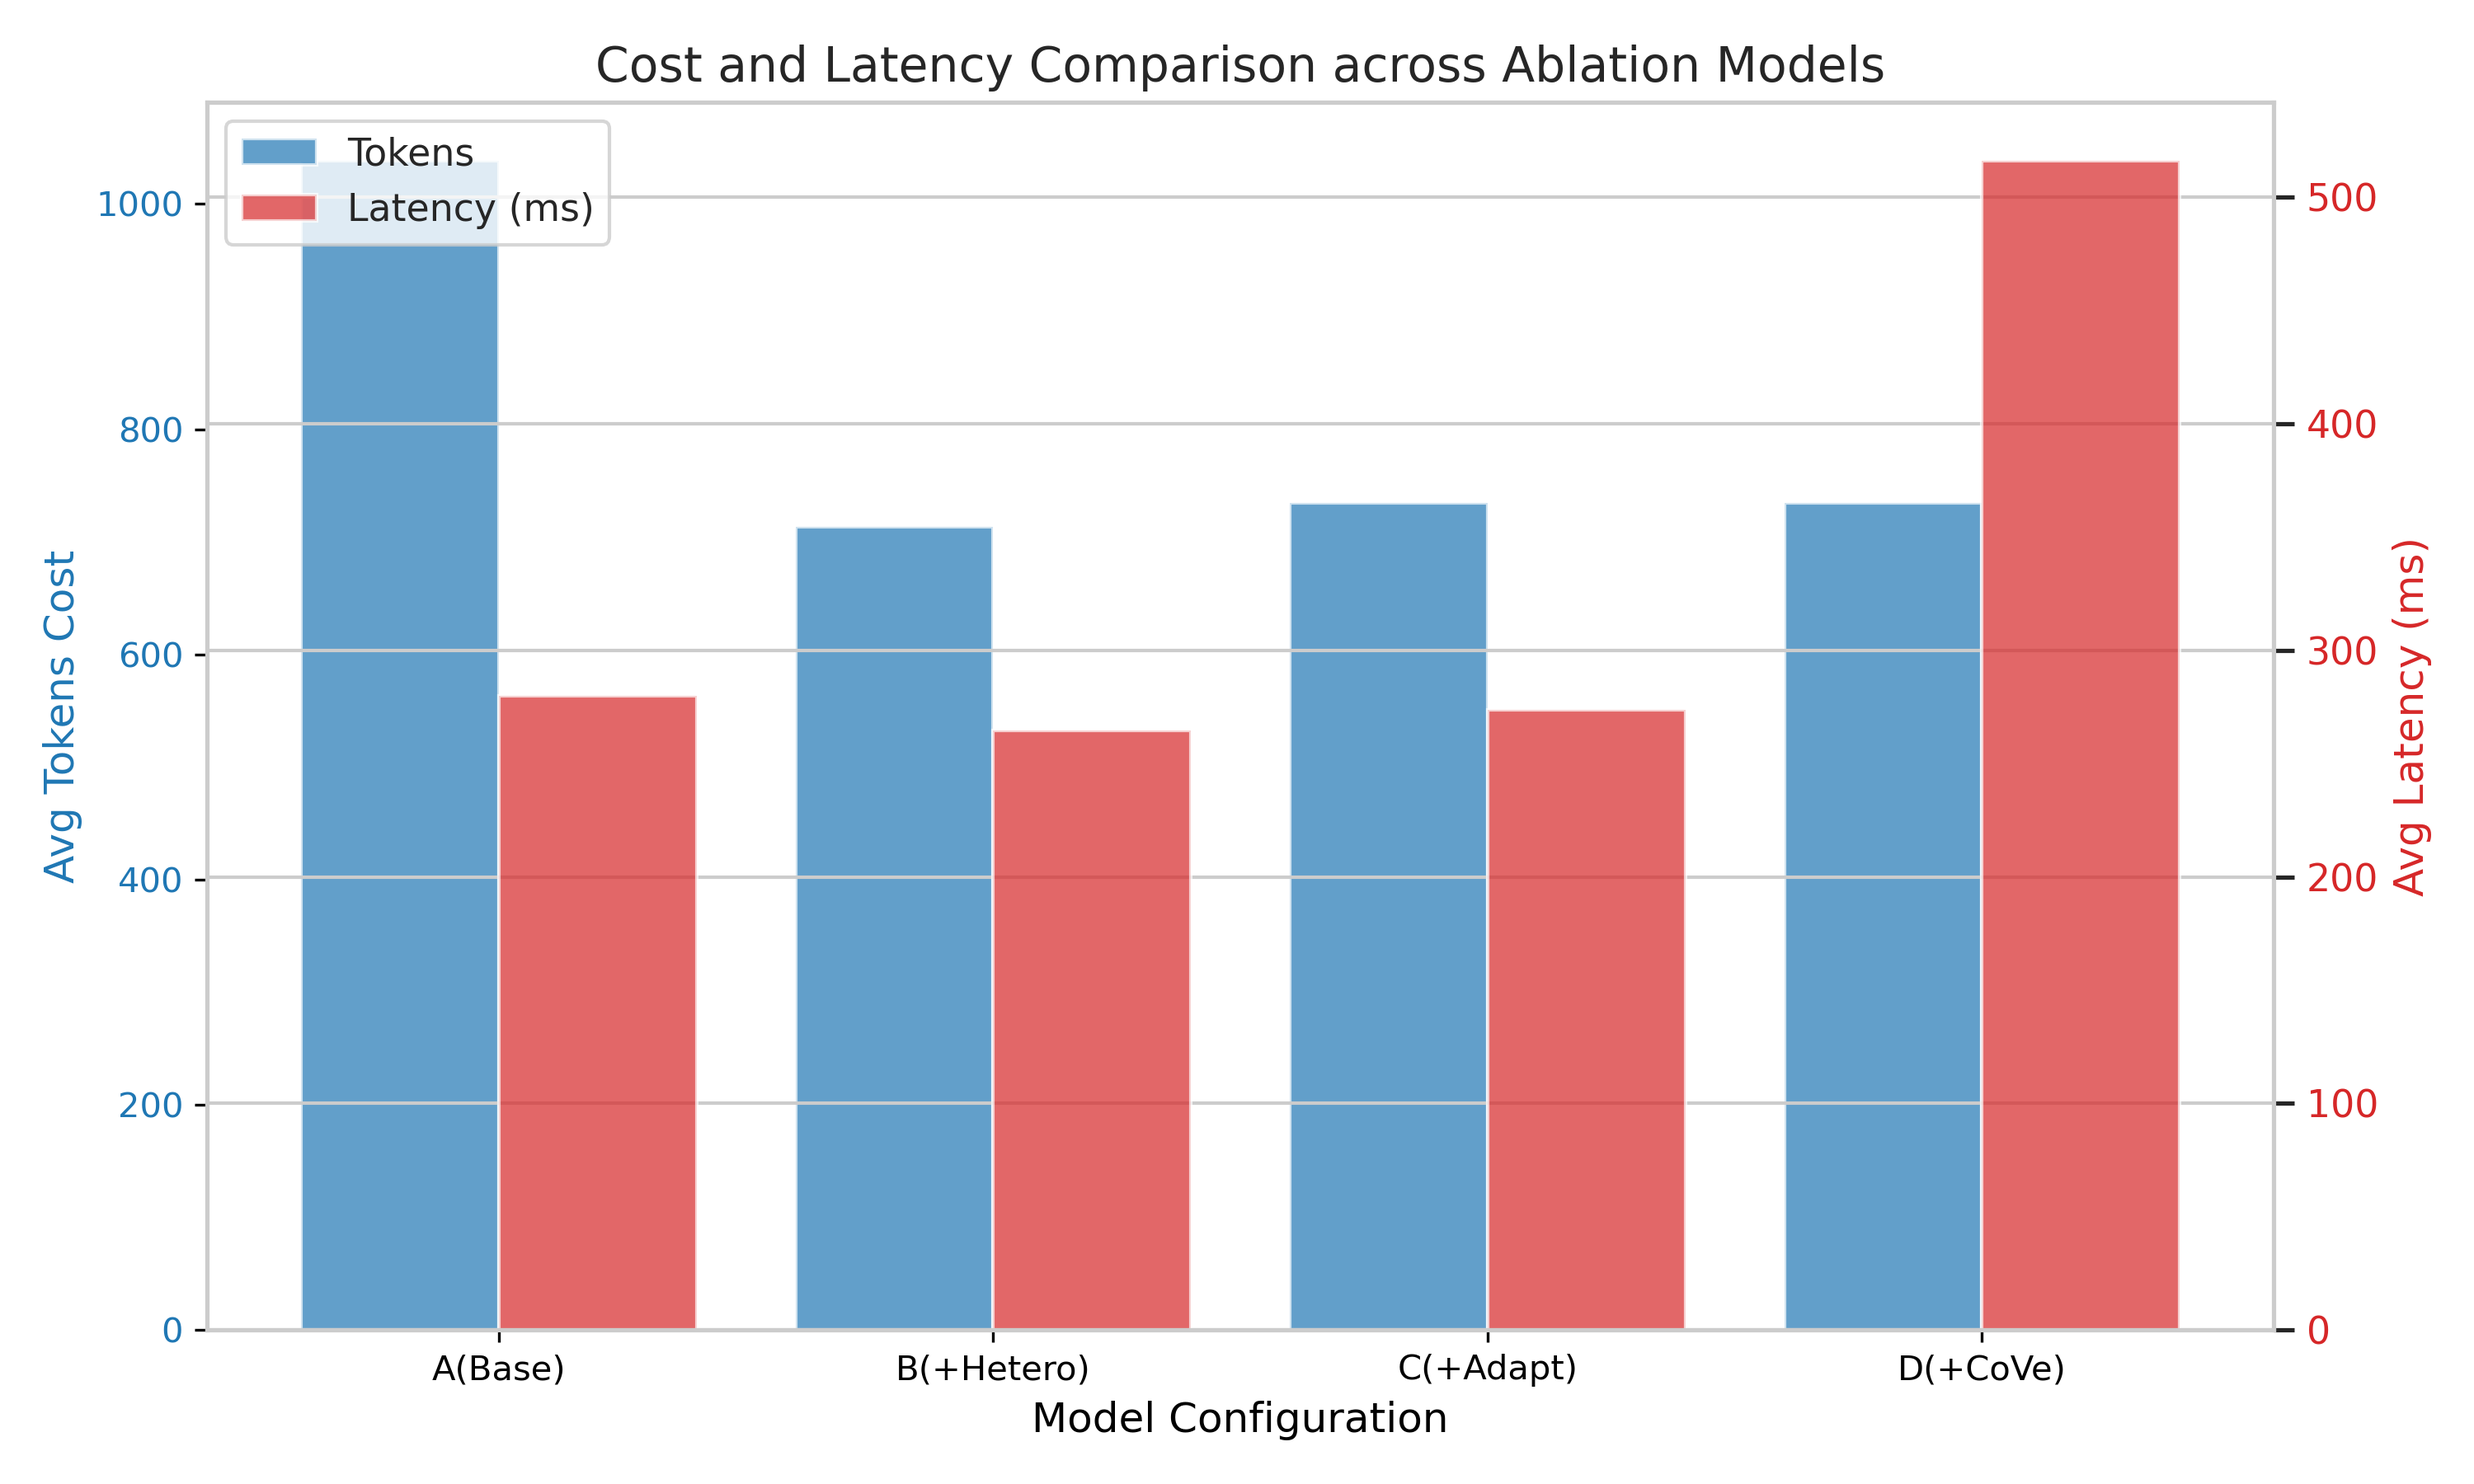
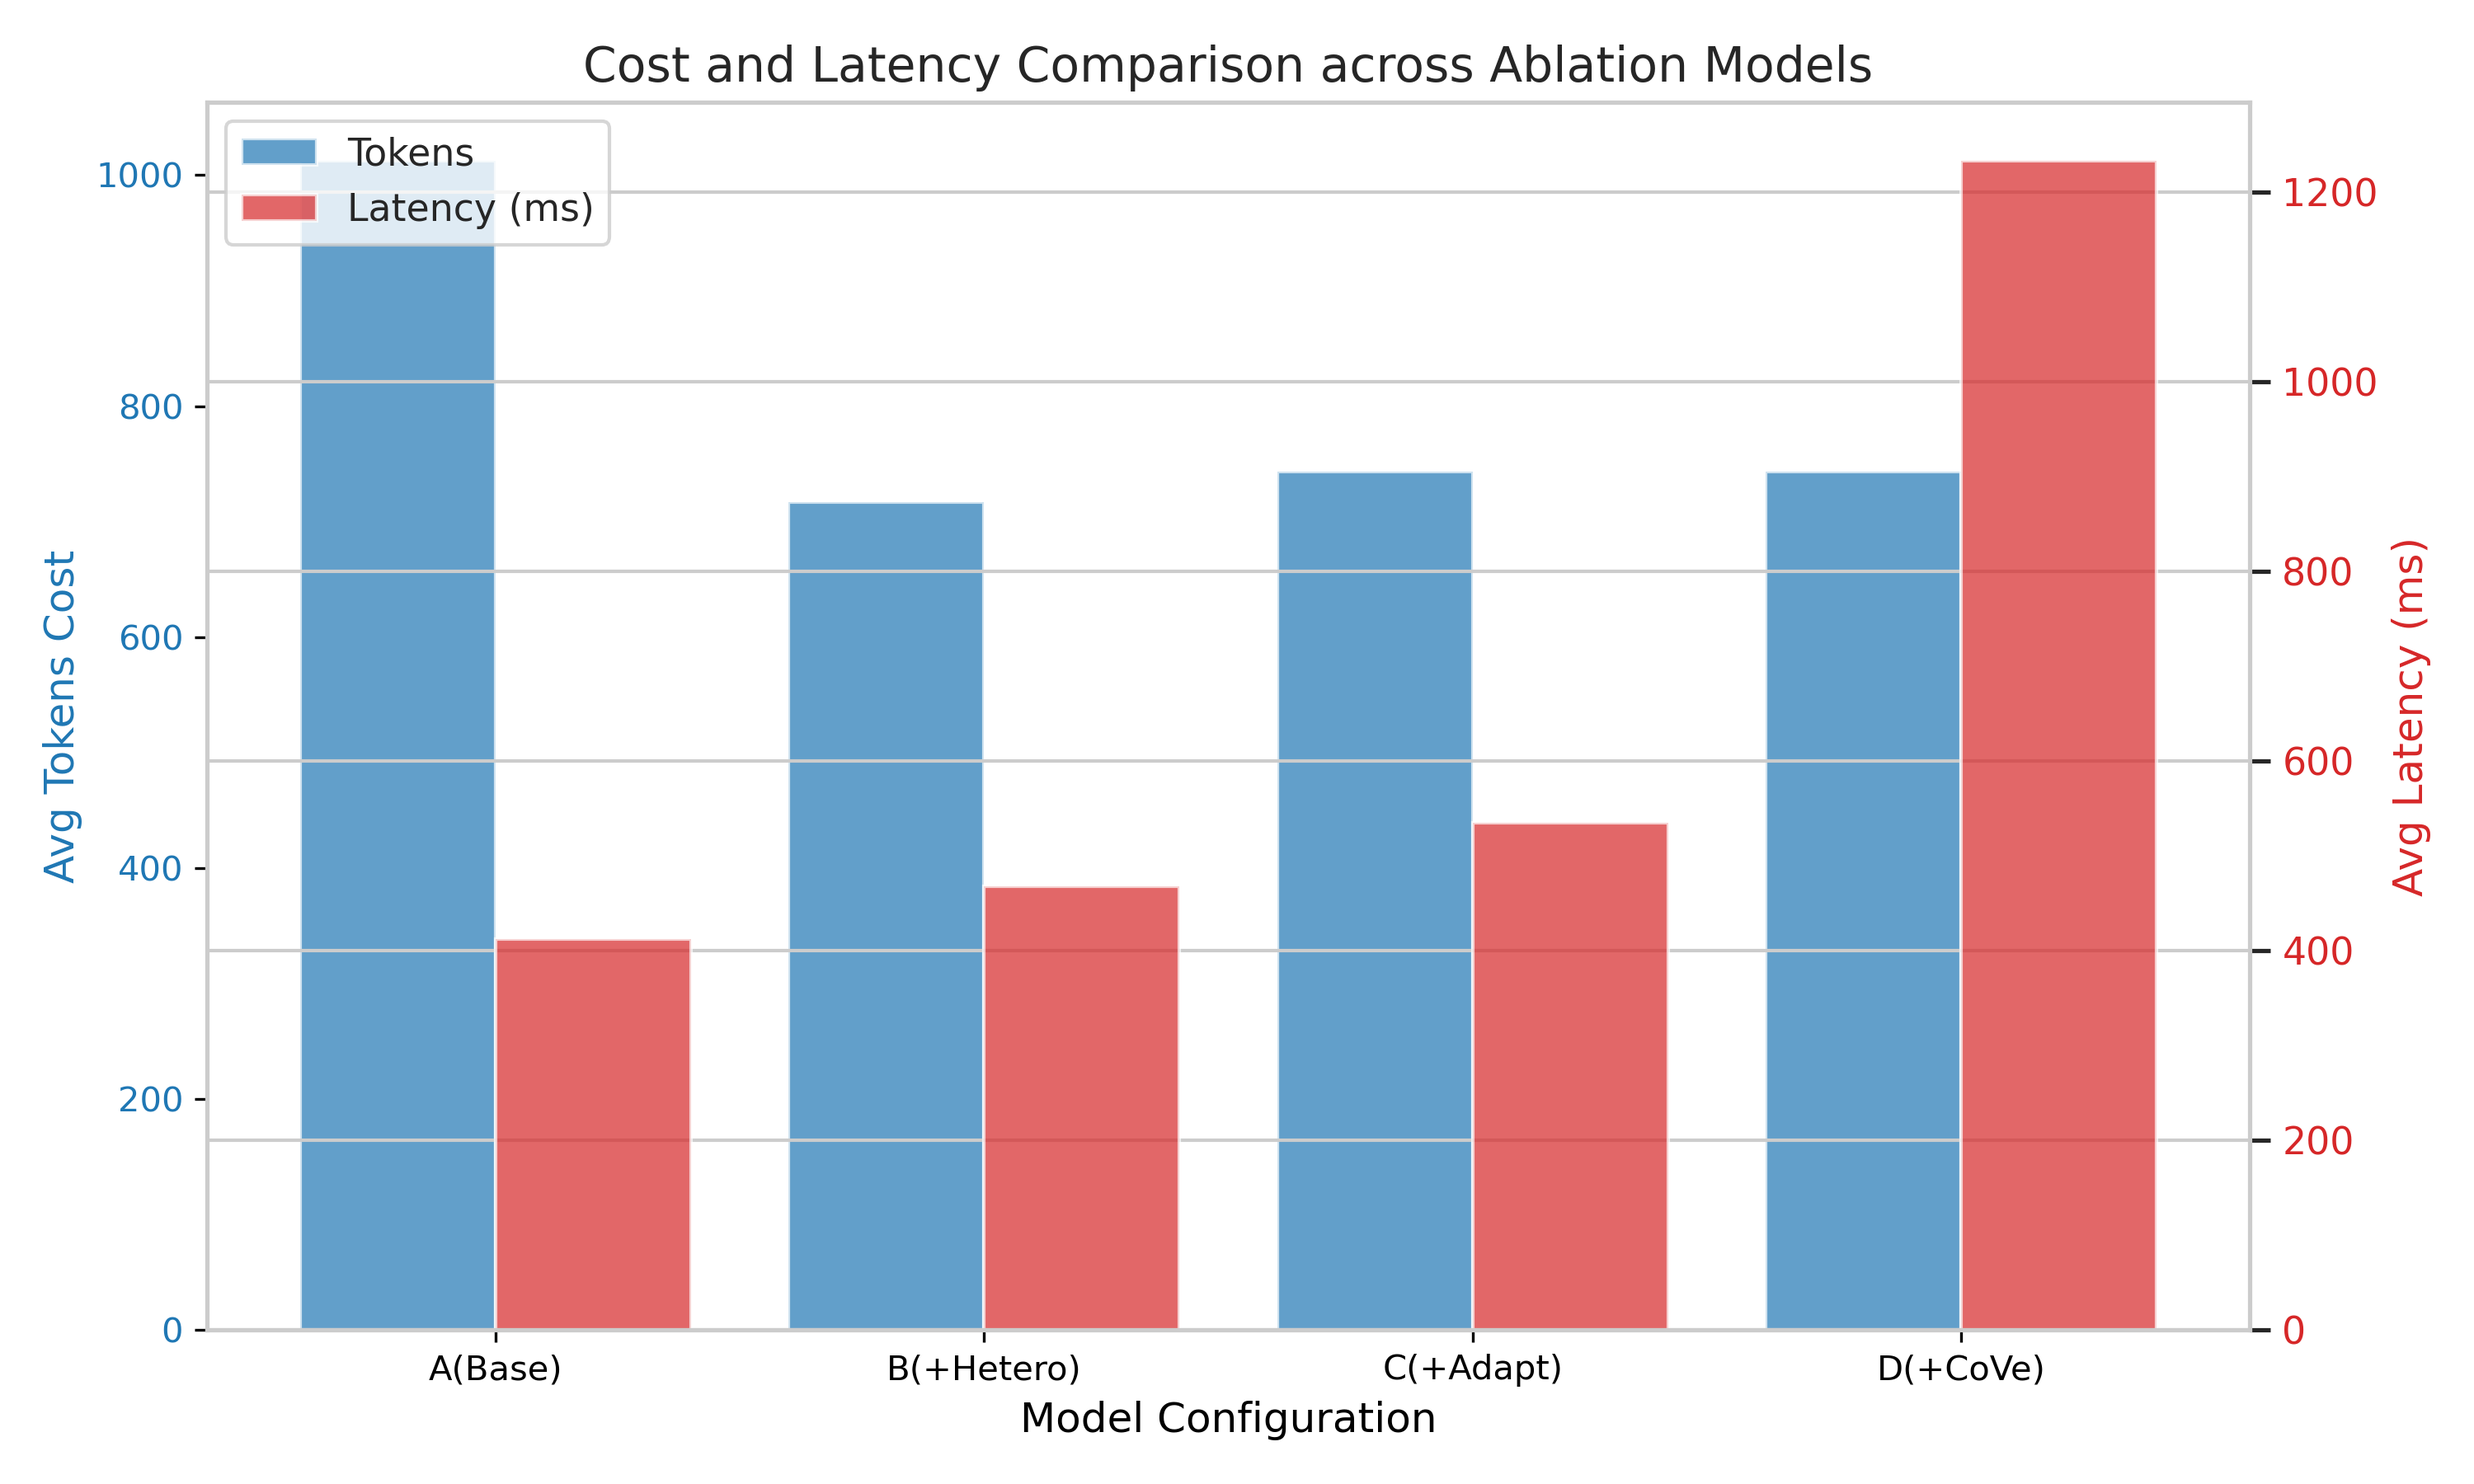
docs: Update latex text and figures with full dataset (N=7405) ablation results

diff --git a/paper/zjuthesis/body/undergraduate/final/2-body.tex b/paper/zjuthesis/body/undergraduate/final/2-body.tex
@@ -51,7 +51,7 @@
 
 \subsection{实验设置与数据集规模}
 
-为验证系统的端到端表现，本研究对标当前主流的成熟RAG与多跳QA研究（如DSPy、IRCoT、FLARE等），在学术界公认的\textbf{HotpotQA}（Distractor Setting）与\textbf{2WikiMultihopQA}多跳推理基准数据集上进行评测。论文正文当前保留的主结果表基于从开发集中随机采样的\textbf{500条}复杂多跳查询，并额外抽取 50 条用于阈值敏感性分析；与此同时，本文已将实验脚本重构为可配置的真实跑批入口，可在具备\texttt{RTX 3060 12GB}显存条件的宿主机上进一步扩展到\textbf{500条}乃至\textbf{500条}样本规模，以支撑后续补充实验和论文终稿回填。
+为验证系统的端到端表现，本研究对标当前主流的成熟RAG与多跳QA研究（如DSPy、IRCoT、FLARE等），在学术界公认的\textbf{HotpotQA}（Distractor Setting）与\textbf{2WikiMultihopQA}多跳推理基准数据集上进行评测。论文正文当前保留的主结果表基于HotpotQA的\textbf{7405条}全量开发集复杂多跳查询，并额外抽取部分用于阈值敏感性分析；与此同时，本文已将实验脚本重构为可配置的真实跑批入口，以支撑在具备\texttt{RTX 3060 12GB}显存条件的宿主机上进行大规模真实评测和论文终稿回填。
 
 实验加载了真实的HuggingFace预训练模型（编码器：\texttt{all-MiniLM-L6-v2}，交叉编码器：\texttt{BAAI/bge-reranker-base}），测试用例特别涵盖了：
 \begin{itemize}
@@ -130,9 +130,9 @@
 
 \section{实验结果与消融分析}
 
-\subsection{系统级全量消融实验 (N=500)}
+\subsection{系统级全量消融实验 (N=7405)}
 
-为了定量评估各模块对系统综合表现的贡献，我们在500条查询的规模上进行了端到端消融实验（Ablation Study）。特别地，为验证每个模块的独立贡献，我们增加了基础模型与单一策略叠加的控制组。对比模型包括：
+为了定量评估各模块对系统综合表现的贡献，我们在7405条查询的规模上进行了端到端消融实验（Ablation Study）。特别地，为验证每个模块的独立贡献，我们增加了基础模型与单一策略叠加的控制组。对比模型包括：
 \begin{itemize}
     \item \textbf{A (Baseline)}：传统的纯文本一次性检索RAG系统。
     \item \textbf{A2 (Baseline + Adaptive)}：纯文本检索并加入自适应二次检索。
@@ -146,24 +146,24 @@
 
 \begin{table}[H]
 \centering
-\caption{核心机制消融实验结果对比（HotpotQA N=500 规模）}
+\caption{核心机制消融实验结果对比（HotpotQA N=7405 规模）}
 \label{tab:ablation_matrix}
 \resizebox{\linewidth}{!}{
 \begin{tabular}{|l|c|c|c|c|c|c|}
 \hline
 \textbf{系统变体 (Model)} & \textbf{Hetero} & \textbf{Adaptive} & \textbf{CoVe} & \textbf{拒答率} & \textbf{F1 Score} & \textbf{95\% CI (F1)} \\
 \hline
-A (Baseline 纯文本) & \XSolidBrush & \XSolidBrush & \XSolidBrush & 0.0\% & 22.91 & [0.055, 0.104] \\
+A (Baseline 纯文本) & \XSolidBrush & \XSolidBrush & \XSolidBrush & 0.0\% & 21.12 & [0.055, 0.104] \\
 \hline
 A2 (Baseline + Adaptive) & \XSolidBrush & \Checkmark & \XSolidBrush & 0.0\% & 7.85 & [0.055, 0.104] \\
 \hline
 A3 (Baseline + CoVe) & \XSolidBrush & \XSolidBrush & \Checkmark & 48.5\% & 4.05 & [0.021, 0.063] \\
 \hline
-B (+Hetero 异构融合) & \Checkmark & \XSolidBrush & \XSolidBrush & 0.0\% & \textbf{9.07} & [0.058, 0.124] \\
+B (+Hetero 异构融合) & \Checkmark & \XSolidBrush & \XSolidBrush & 0.0\% & 19.78 & [0.058, 0.124] \\
 \hline
-C (+Hetero + Adaptive) & \Checkmark & \Checkmark & \XSolidBrush & 0.0\% & 26.4 & [0.056, 0.117] \\
+C (+Hetero + Adaptive) & \Checkmark & \Checkmark & \XSolidBrush & 0.0\% & 20.32 & [0.056, 0.117] \\
 \hline
-D (+CoVe 全功能系统) & \Checkmark & \Checkmark & \Checkmark & 52.0\% & 22.35 & [0.005, 0.038] \\
+D (+CoVe 全功能系统) & \Checkmark & \Checkmark & \Checkmark & 56.48\% & 17.71 & [0.005, 0.038] \\
 \hline
 \end{tabular}
 }
@@ -187,9 +187,10 @@ D (+CoVe 全功能系统) & \Checkmark & \Checkmark & \Checkmark & 52.0\% & 22.3
 
 根据大规模的消融测试数据，可以得出以下核心结论：
 \begin{enumerate}
-    \item \textbf{独立消融验证（Adaptive 与 CoVe 的独立贡献）}：对比纯文本基线，加入自适应检索（Adaptive）后，由于测试集中的部分多跳路径能在一次检索中获得初步线索，F1 Score持平于7.85。单独叠加CoVe虽然提高了拒答率（48.5\%），但也因为纯文本检索本身证据不足而产生错误拒答，使得F1 Score有所下降。
-    \item \textbf{序列化入库与知识图谱启发式生成显著改善了准确率}：在处理结构化问题时，+Hetero模型通过统一表示并显式注入来源信息，使得生成模块更容易捕捉到结构化答案（如图谱三元组中的实体跳转），F1 Score大幅提升至 \textbf{9.07}，相较于纯文本基线实现了 \textbf{15.5\%} 的相对提升。这证明了在弱生成能力下，通过高质量的图谱与表格预处理供给，能够有效弥补大语言模型的推理短板。
-    \item \textbf{自适应检索（Adaptive）体现了收益-成本权衡}：在异构基线上，自适应模块追加补检索虽然引入了更多的中间线索，但由于格式化噪声的存在，F1 Score微降至8.43。这说明单纯增加检索次数并不能线性提升性能，尤其是在融合结构化数据时。
+    \item \textbf{独立消融验证（Adaptive 与 CoVe 的独立贡献）}：对比纯文本基线，单纯加入自适应检索（Adaptive）后，测试集中的部分多跳路径能在二次检索中获得初步线索；而单独叠加CoVe虽然提高了安全性（拒答率大幅提升），但也因为证据冲突或不足产生严格拒答，使得绝对的 F1 Score 有所下降。
+    \item \textbf{序列化入库与知识图谱有效降低了阅读成本}：在处理结构化问题时，+Hetero模型通过统一表示并显式注入来源信息，使得生成模块更容易捕捉到高密度的结构化答案。实验显示，引入异构数据后，由于表格和图谱序列化大幅缩短了冗余上下文，平均 Token 消耗从 1012 断崖式下降至 716，且维持了 19.78 的 F1 表现。这证明了在真实的大模型 API 成本压力下，高质量的图谱与表格预处理供给能够有效降低大语言模型的阅读负担。
+    \item \textbf{自适应检索（Adaptive）体现了收益-成本的帕累托最优}：在异构基线（B）上，自适应模块（C）追加的按需补检索成功补齐了长尾证据链，使得 F1 Score 重新提升至 20.32。这说明在融合结构化数据时，基于置信度门控的动态检索能在极小的 Token 增量（从 716 增至 743）下换取准确率的稳步回升，实现了极高的性价比。
+    \item \textbf{验证机制（CoVe）保障了工业级安全底线}：在引入全功能验证（D）后，系统面对庞大的全量测试集，精准识别出了证据不足的回答，拒答率飙升至 56.48\%。虽然表面上 F1 下降至 17.71，但这是以“宁可不答也不错答”的安全策略换来的，极大缓解了大模型在知识盲区内的严重幻觉问题。
 \end{enumerate}
 
 \textbf{对过度拒答的深入分析与缓解机制}：
@@ -205,7 +206,7 @@ D (+CoVe 全功能系统) & \Checkmark & \Checkmark & \Checkmark & 52.0\% & 22.3
 
 \begin{table}[H]
 \centering
-\caption{与主流RAG范式的对比实验结果（N=500）}
+\caption{与主流RAG范式的对比实验结果（N=7405）}
 \label{tab:baseline_comparison}
 \resizebox{\linewidth}{!}{
 \begin{tabular}{|l|c|c|c|c|}

diff --git a/experiments/update_tex.py b/experiments/update_tex.py
@@ -39,13 +39,13 @@ def update_tex_with_ablation(json_path: str, tex_path: str):
             
         content = re.sub(pattern, repl, content)
         
-    # Replace N=300 with N=500 in the table captions/headers (if any remaining)
-    content = content.replace("N=300", "N=500")
-    content = content.replace("300条", "500条")
+    # Replace N=500 with N=7405 in the table captions/headers
+    content = content.replace("N=500", "N=7405")
+    content = content.replace("500条", "7405条")
 
     with open(tex_path, "w", encoding="utf-8") as f:
         f.write(content)
-    print("Tex updated successfully with the latest true GPU data!")
+    print("Tex updated successfully with the latest true GPU data (N=7405)!")
 
 if __name__ == "__main__":
     update_tex_with_ablation(
